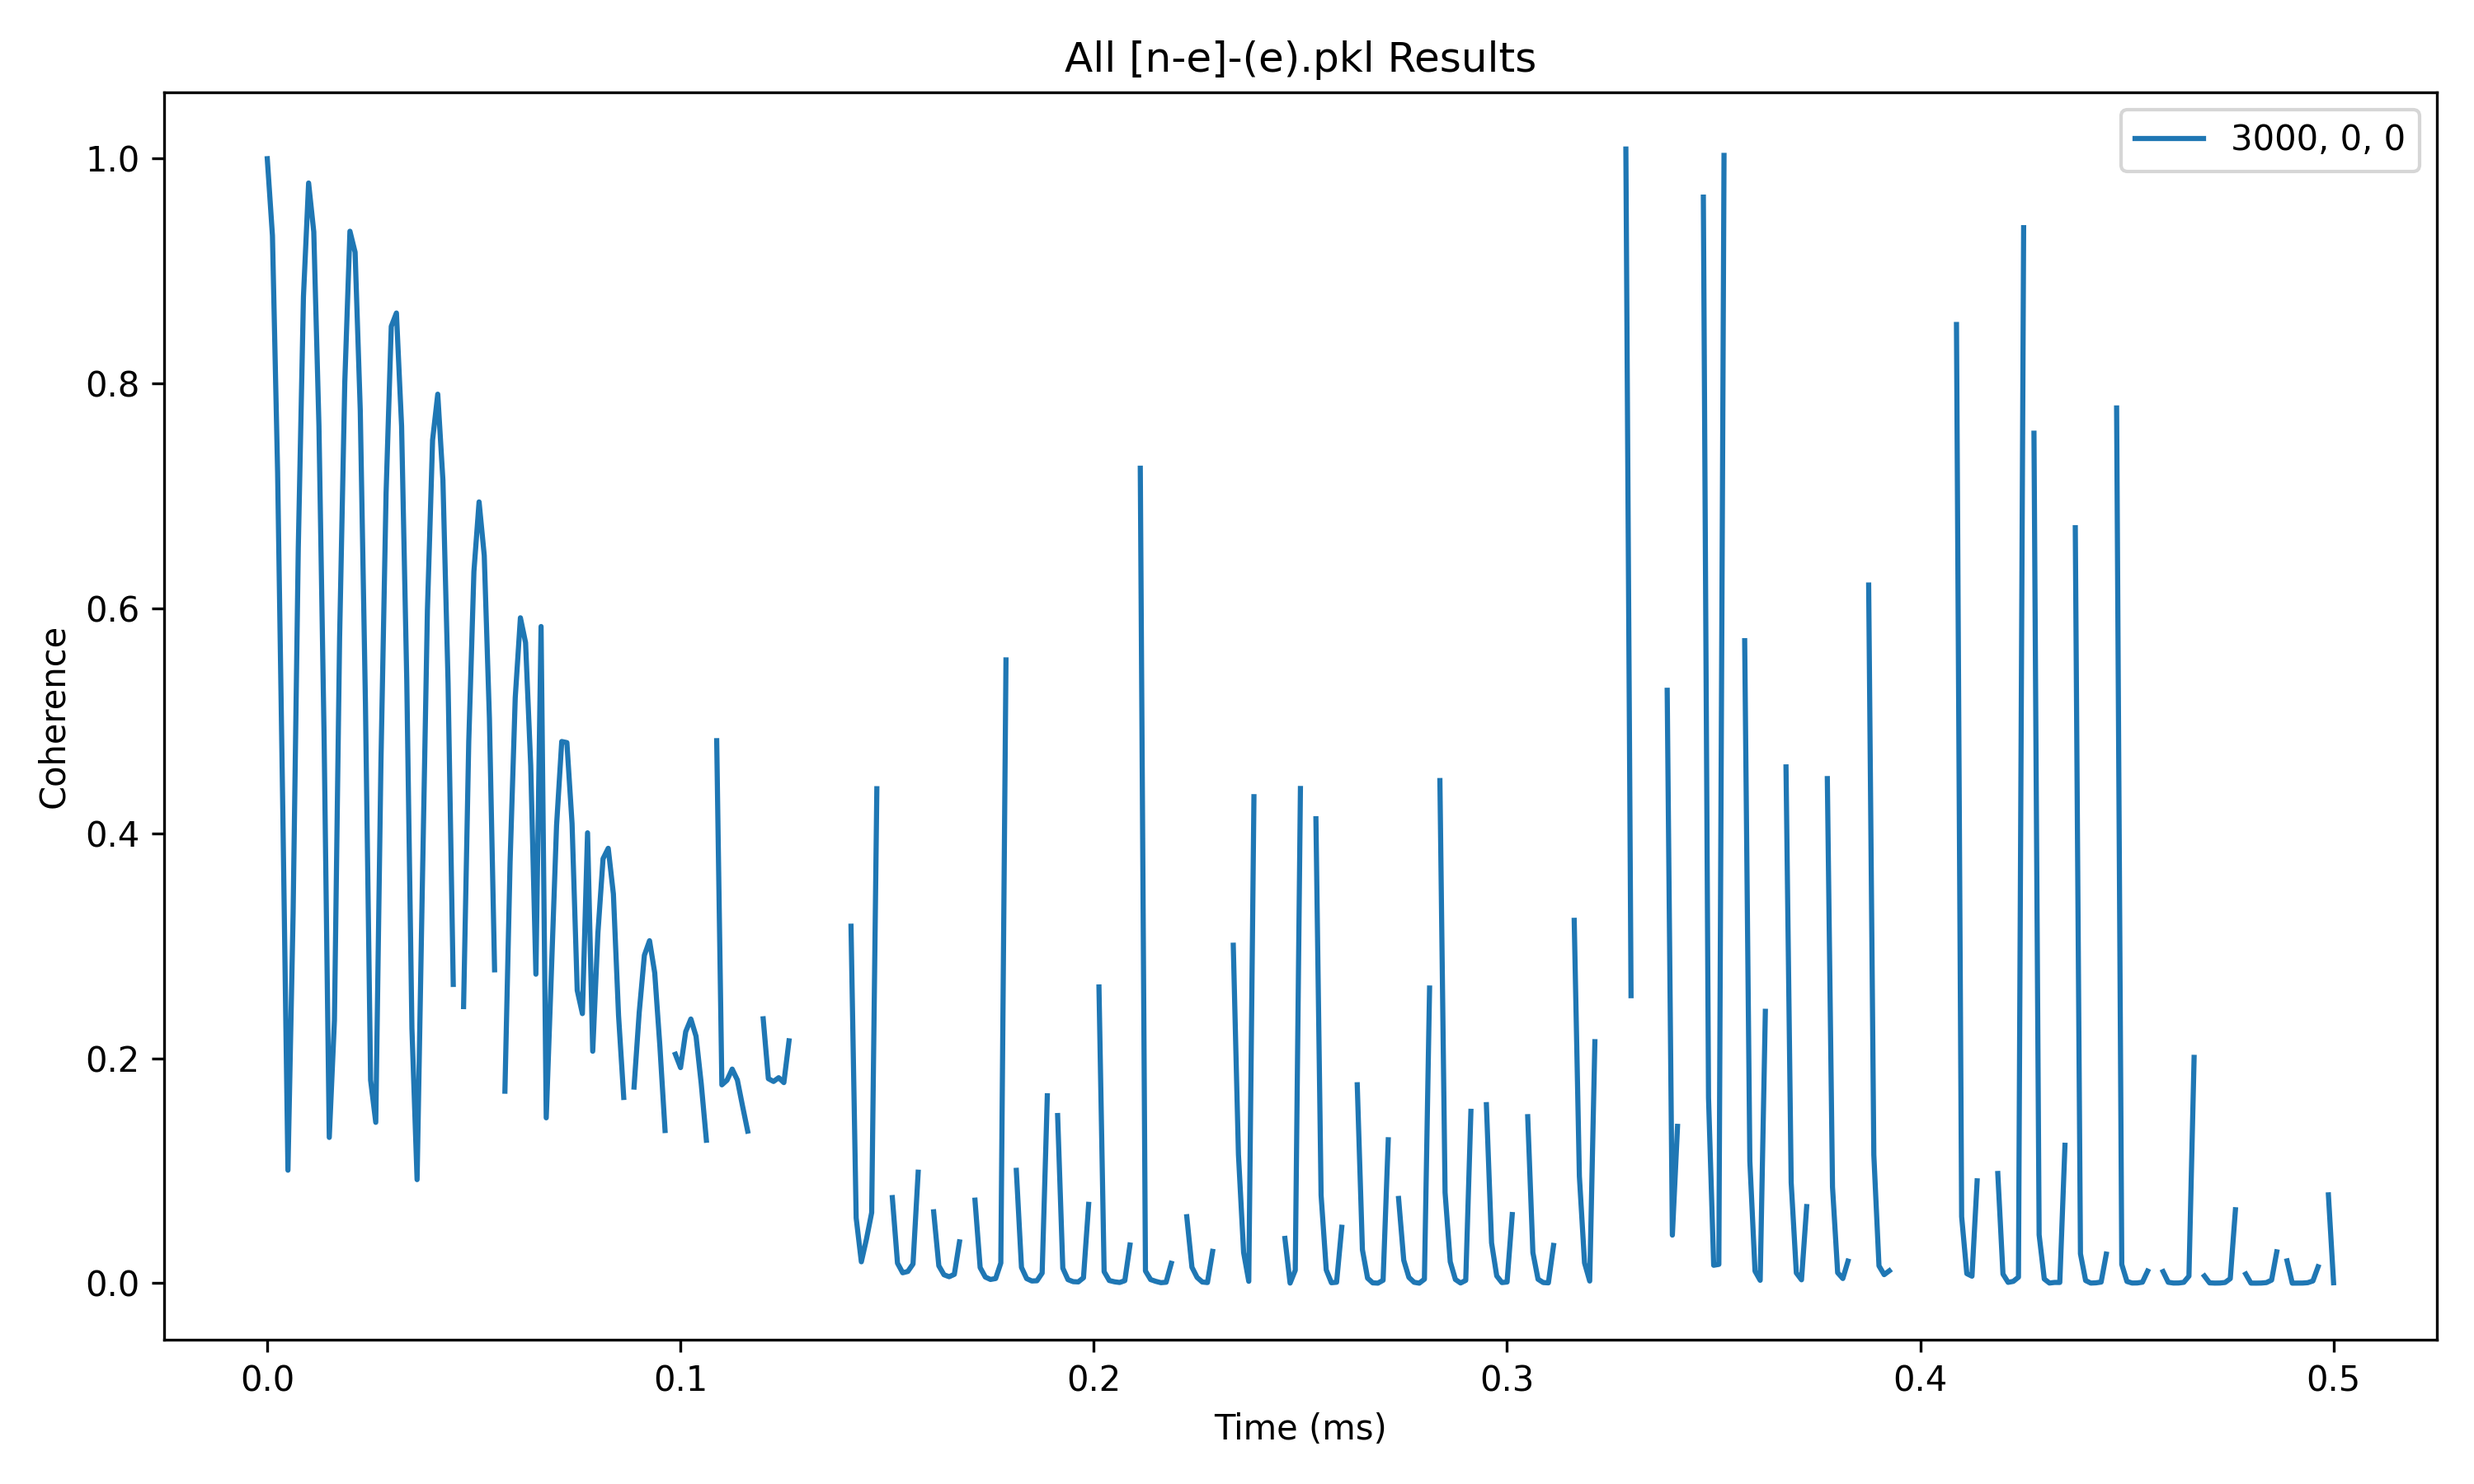
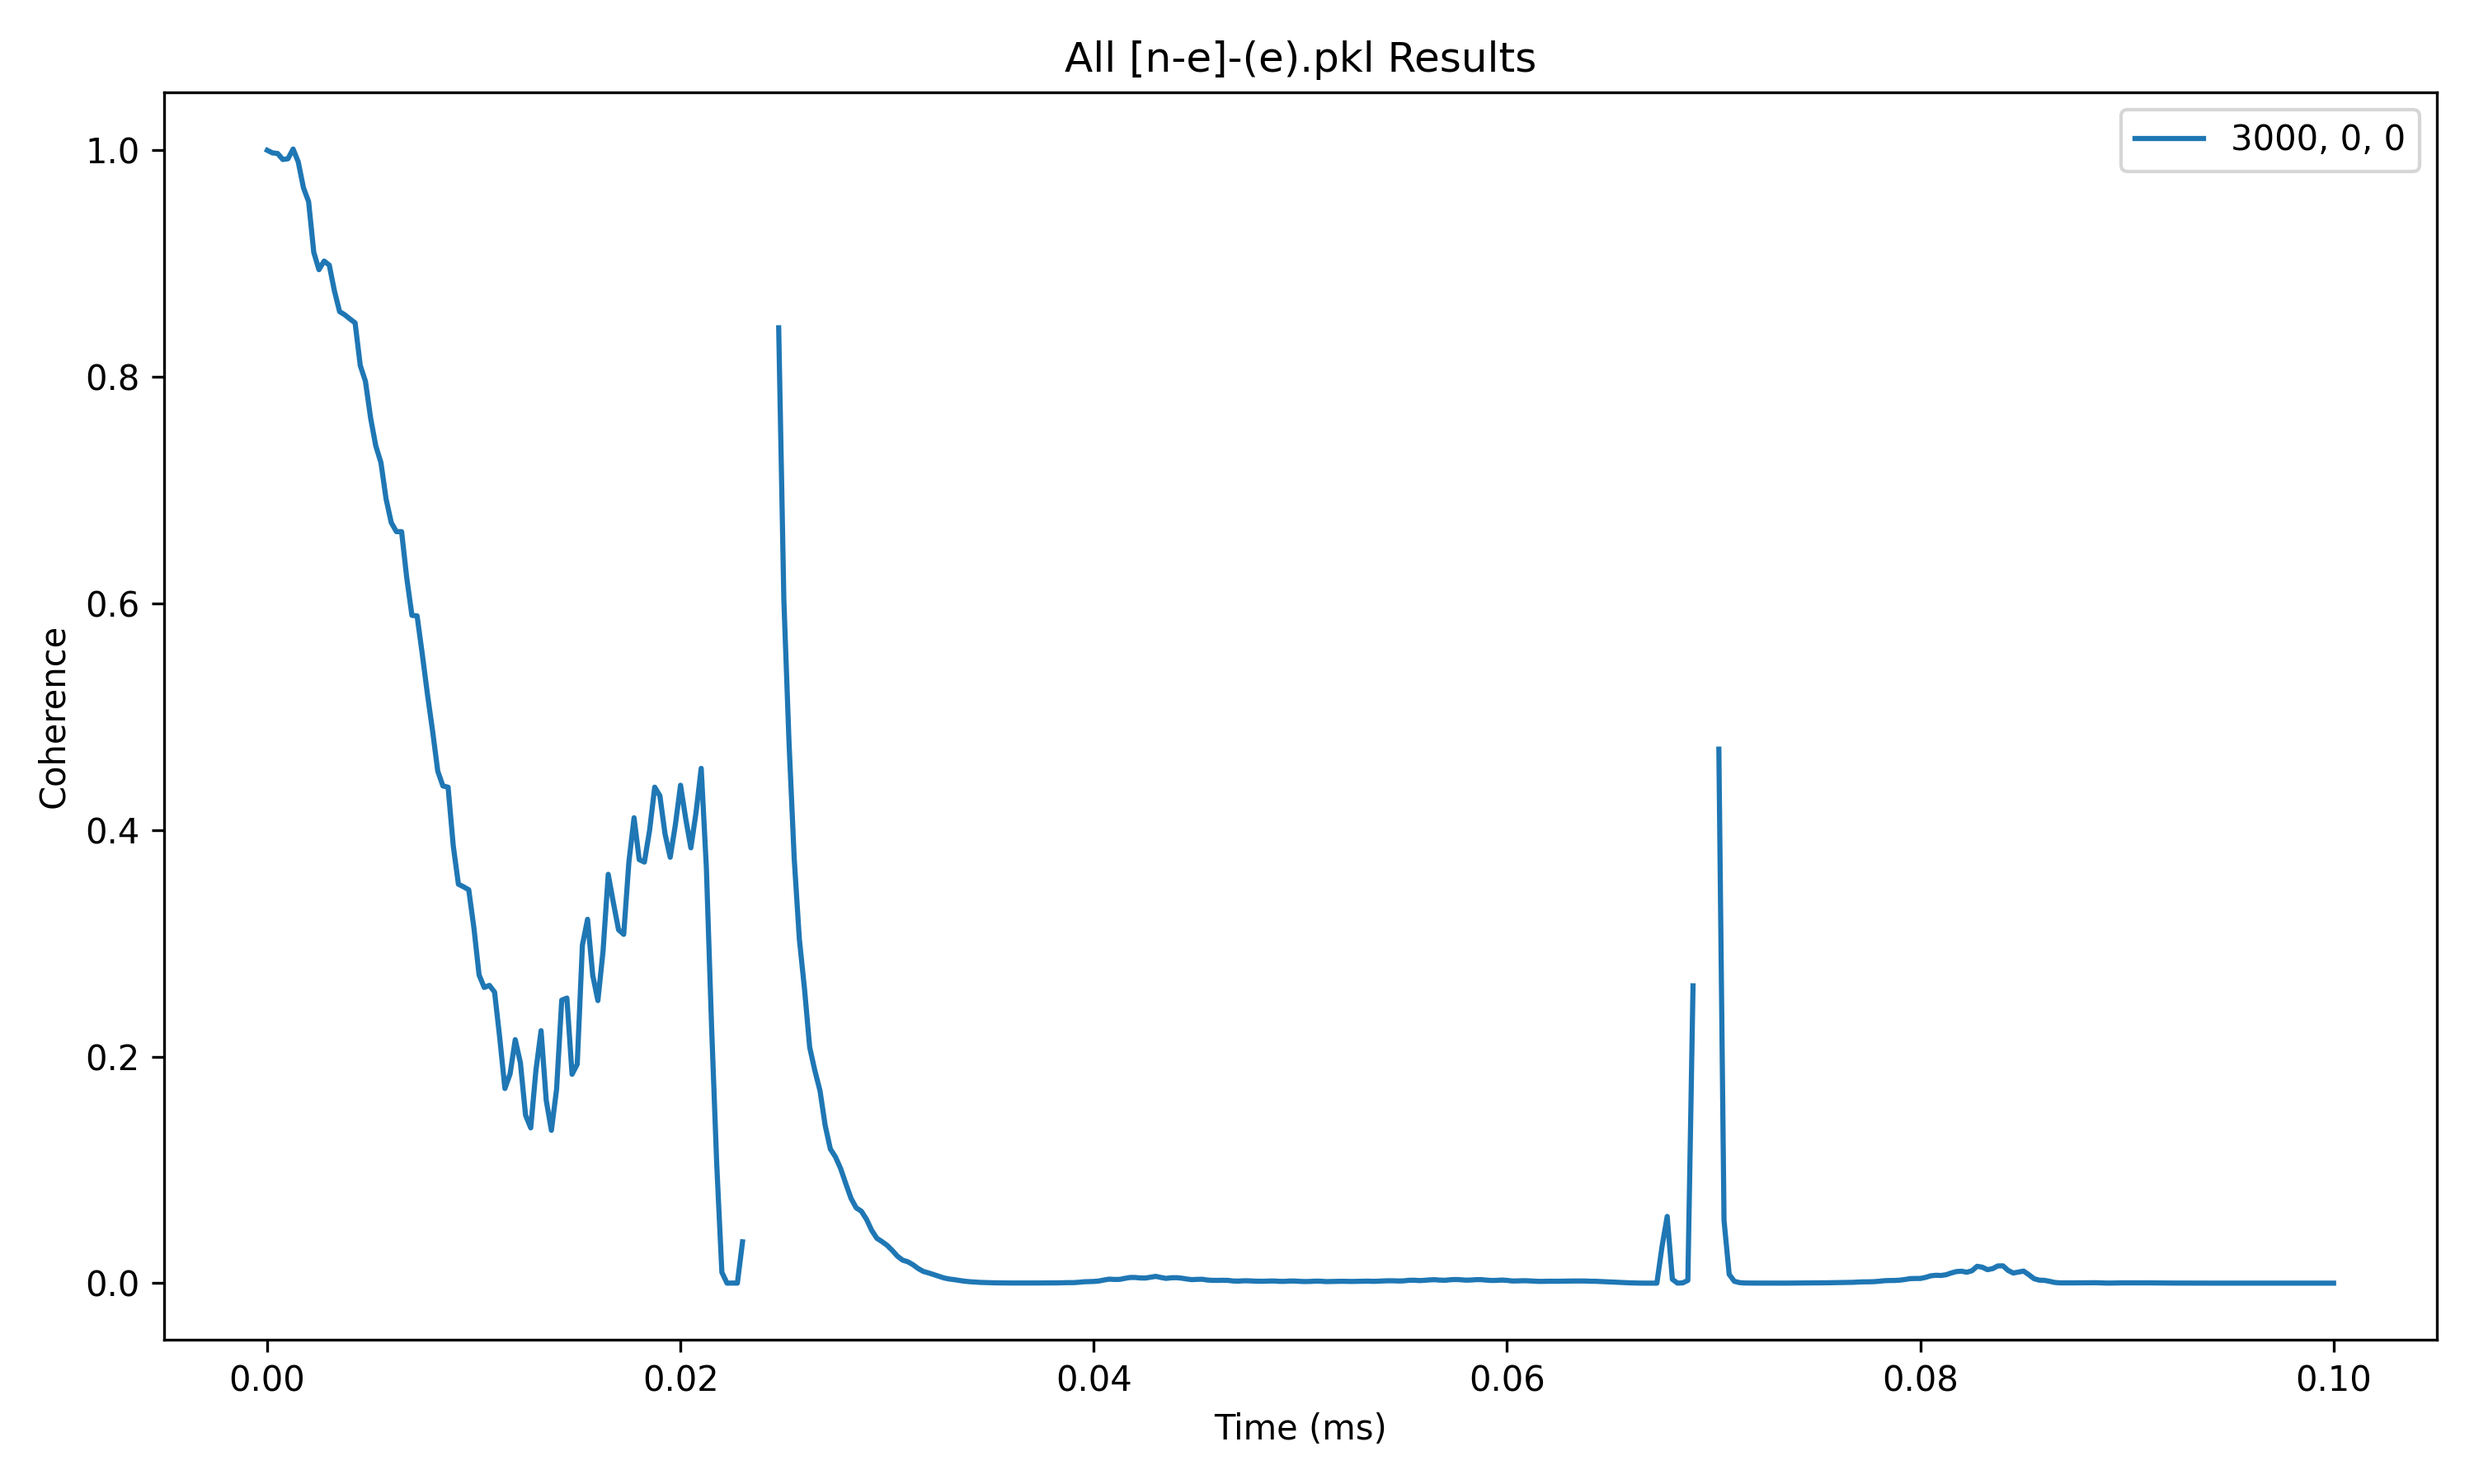
AB1 sim with convergent values; order3, r_bath=80, r_dipole=50. T2=12us

diff --git a/VOTPP folder/VOTPP_[n-e]-(e).py b/VOTPP folder/VOTPP_[n-e]-(e).py
@@ -152,7 +152,7 @@ nbstates_list = [128,]
 # ])
 
 # Define the timespace
-timespace_absolute = np.linspace(0, 0.5, 401)
+timespace_absolute = np.linspace(0, 0.1, 401)
 
 # pulse_central = pc.Pulse(axis='z', angle='2*pi/3', delay=None,)  # 120° pulse around x-axis applied to central spin
 pulse_bath = pc.Pulse(axis='z', angle='2*pi/3', delay=None, )
@@ -194,7 +194,7 @@ default_bath_parameters = {
 default_simulator_parameters = { ########## These should be greater when simulating with HPC
     'order': 3, #!
     'r_bath': 80, #16,
-    'r_dipole': 40, #6,
+    'r_dipole': 50, #6,
     'magnetic_field': [3000, 0, 0], # Magnetic field in Gauss
 }
 
@@ -232,39 +232,39 @@ magnetic_field_list = [[3000,0,0]]
 #                         )
 
 # seed_list = [8000, 9000, 10000, 11000,]
-# seed_list = [8000,]
-# magnetic_results = {}
-# for idx, seed in enumerate(seed_list):
-#     # Change the value of the seed in the default parameters
-#     default_bath_parameters['seed'] = seed
-#     if rank == 0:
-#         print("Seed: {}".format(seed))
+seed_list = [8000,]
+magnetic_results = {}
+for idx, seed in enumerate(seed_list):
+    # Change the value of the seed in the default parameters
+    default_bath_parameters['seed'] = seed
+    if rank == 0:
+        print("Seed: {}".format(seed))
 
-#         # Start timer
-#         start = time.time()
+        # Start timer
+        start = time.time()
 
-#     magnetic_results[seed] = runner(
-#                         concentration_value=default_bath_parameters['concentration'],
-#                         changing_variable='magnetic_field', variable_values=magnetic_field_list,
-#                         num_spins=2,# spin_type='electronic',
-#                         alpha = 2, #3!
-#                         beta = 3, #4!
-#                         bath_parameters=default_bath_parameters, simulator_parameters=default_simulator_parameters, calc_parameters=default_calc_parameters,
-#                         # changing_variable2='timespace', variable_values2=timespace_list,
-#                         )
+    magnetic_results[seed] = runner(
+                        concentration_value=default_bath_parameters['concentration'],
+                        changing_variable='magnetic_field', variable_values=magnetic_field_list,
+                        num_spins=2,# spin_type='electronic',
+                        alpha = 2, #3!
+                        beta = 3, #4!
+                        bath_parameters=default_bath_parameters, simulator_parameters=default_simulator_parameters, calc_parameters=default_calc_parameters,
+                        # changing_variable2='timespace', variable_values2=timespace_list,
+                        )
     
-#     if rank == 0:
-#         # Print time
-#         end = time.time()
-#         print("Time taken: {} seconds".format(end - start))
+    if rank == 0:
+        # Print time
+        end = time.time()
+        print("Time taken: {} seconds".format(end - start))
 
-#     # Save the current state of results
-#     with open((str(path) + f'magnetic_results_{idx}.pkl'), 'wb') as f:
-#         pickle.dump(magnetic_results, f)
+    # Save the current state of results
+    with open((str(path) + f'magnetic_results_{idx}.pkl'), 'wb') as f:
+        pickle.dump(magnetic_results, f)
 
-# if rank == 0:
-#     with open((str(path) + '[n-e]-(e).pkl'), 'wb') as f:
-#         pickle.dump(magnetic_results, f)
+if rank == 0:
+    with open((str(path) + '[n-e]-(e).pkl'), 'wb') as f:
+        pickle.dump(magnetic_results, f)
 
 #####################################################################
 
@@ -333,35 +333,35 @@ magnetic_field_list = [[3000,0,0]]
 
 
 
-r_dipole_results = {}
-for idx, conc in enumerate(concentration_list):
-    if rank == 0:
-        # Start timer
-        start = time.time()
+# r_dipole_results = {}
+# for idx, conc in enumerate(concentration_list):
+#     if rank == 0:
+#         # Start timer
+#         start = time.time()
 
-    r_dipole_results[conc] = runner(concentration_value=conc,
-                        changing_variable='r_dipole', variable_values=r_dipole_list,
-                        num_spins=2, #spin_type='nuclear',
-                        alpha= 2,
-                        beta=  3,
-                        bath_parameters=default_bath_parameters, simulator_parameters=default_simulator_parameters, calc_parameters=default_calc_parameters,
-                        # changing_variable2='timespace', variable_values2=timespace_list,
-                        )
+#     r_dipole_results[conc] = runner(concentration_value=conc,
+#                         changing_variable='r_dipole', variable_values=r_dipole_list,
+#                         num_spins=2, #spin_type='nuclear',
+#                         alpha= 2,
+#                         beta=  3,
+#                         bath_parameters=default_bath_parameters, simulator_parameters=default_simulator_parameters, calc_parameters=default_calc_parameters,
+#                         # changing_variable2='timespace', variable_values2=timespace_list,
+#                         )
     
-    if rank == 0:
-        # Print time
-        end = time.time()
-        print("Time taken: {} seconds".format(end - start))
+#     if rank == 0:
+#         # Print time
+#         end = time.time()
+#         print("Time taken: {} seconds".format(end - start))
 
-    # Save the current state of results
-    with open((str(path) + f'r_dipole_results_{idx}.pkl'), 'wb') as f:
-        pickle.dump(r_dipole_results, f)
+#     # Save the current state of results
+#     with open((str(path) + f'r_dipole_results_{idx}.pkl'), 'wb') as f:
+#         pickle.dump(r_dipole_results, f)
 
-if rank == 0:
-    with open((str(path) + '[n-e]-(e)_r_dipole_order3_results.pkl'), 'wb') as f:
-        pickle.dump(r_dipole_results, f)
+# if rank == 0:
+#     with open((str(path) + '[n-e]-(e)_r_dipole_order3_results.pkl'), 'wb') as f:
+#         pickle.dump(r_dipole_results, f)
 
-    print("r_dipole results done")
+#     print("r_dipole results done")
 
 
 #####################################################################

diff --git a/VOTPP folder/VOTPP_results_and_fit_plotter.py b/VOTPP folder/VOTPP_results_and_fit_plotter.py
@@ -260,11 +260,11 @@ def plot_from_file_average(pickle_filenames, data_range=slice(None), ylim=None):
 # plot_from_file(['magnetic_results_[n-e]_e_N_trans.pkl',]) #!!!!
 
 # plot_from_file(['magnetic_results_[n-e]_e_E_trans.pkl',])
-# plot_from_file(['[n-e]-(e).pkl',])#, data_range=slice(0, 225), )
+plot_from_file(['[n-e]-(e).pkl',])#, data_range=slice(0, 225), )
 # plot_from_file(['[n-e]-(n).pkl',])
 # plot_from_file(['magnetic_results_0.pkl'])
-plot_from_file(['[n-e]-(e)_r_dipole_results.pkl'])
-plot_from_file(['[n-e]-(e)_r_dipole_order3_results.pkl'])
+# plot_from_file(['[n-e]-(e)_r_dipole_results.pkl'])
+# plot_from_file(['[n-e]-(e)_r_dipole_order3_results.pkl'])
 # plot_from_file(['[n-e]-(e)_r_bath_results.pkl'])
 # plot_from_file_average(['[n-e]-(e).pkl'])
 
